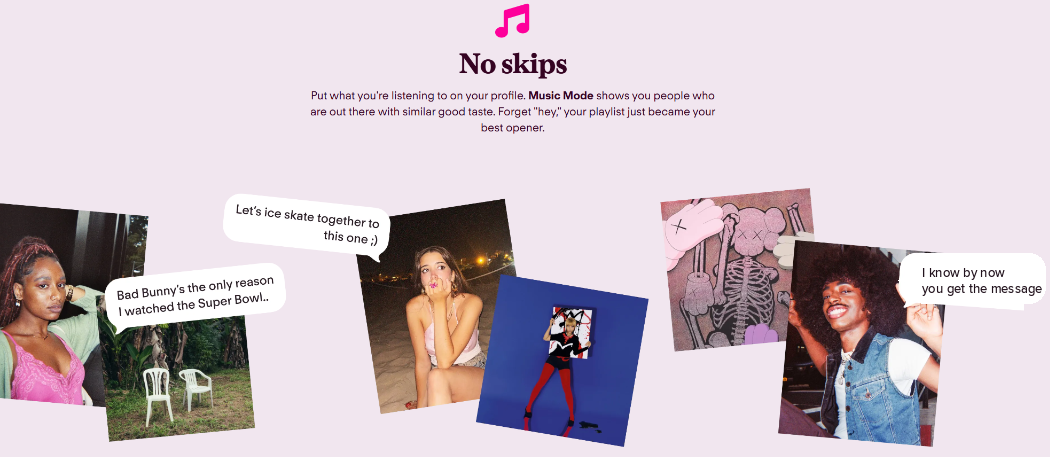
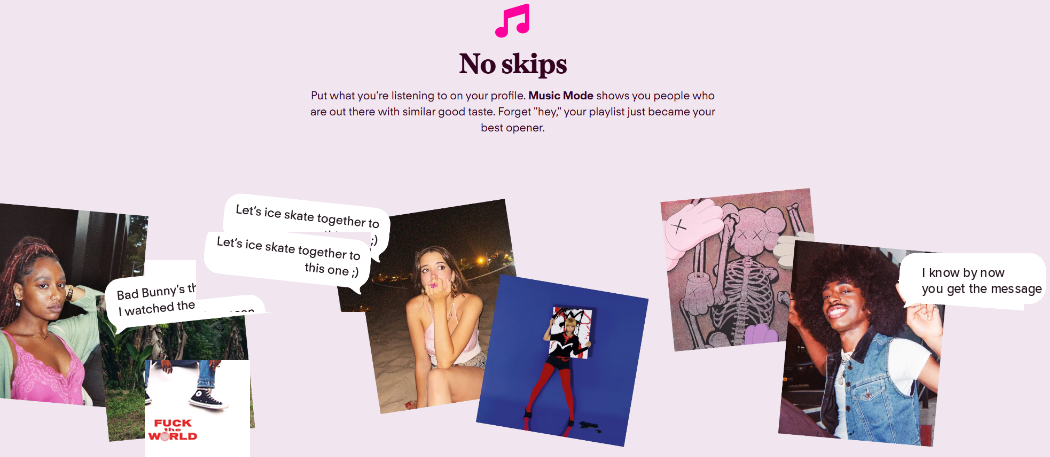
Rewriting Dating Profile Copy

Changed region(s): [[0.1219, 0.4902, 0.3657, 0.7046], [0.1219, 0.7659, 0.2438, 1.0]]

diff --git a/src/components/MusicModeSection.jsx b/src/components/MusicModeSection.jsx
@@ -45,19 +45,17 @@ export default function MusicModeSection() {
         >
           {/* Section Headline */}
           <h2 className="font-tiempos font-bold text-[28px] sm:text-[32px] md:text-[35.5px] leading-[1.05] tracking-[-0.015em] text-[#350322] antialiased mb-[13px]">
-            No skips
+            Forget your type
           </h2>
 
           {/* Section Description Paragraph */}
-          <p className="font-modern font-normal text-[13px] md:text-[13.5px] leading-[17px] text-[#360524] tracking-[0.002em] max-w-[500px] antialiased">
+          <p className="font-modern font-normal text-[13px] md:text-[13.5px] leading-[18px] md:leading-[20px] text-[#360524] tracking-[0.002em] max-w-[650px] antialiased">
             <span className="block md:whitespace-nowrap">
-              Put what you're listening to on your profile.{' '}
-              <strong className="font-bold text-[#350322]">Music Mode</strong> shows you people who
+              Your type might be exactly what’s holding you back. Our AI looks at who you are,
             </span>
             <span className="block md:whitespace-nowrap">
-              are out there with similar good taste. Forget "hey," your playlist just became your
+              who you choose, and who actually fits you to find the connection you didn’t know to look for.
             </span>
-            <span className="block md:whitespace-nowrap">best opener.</span>
           </p>
         </div>
 
